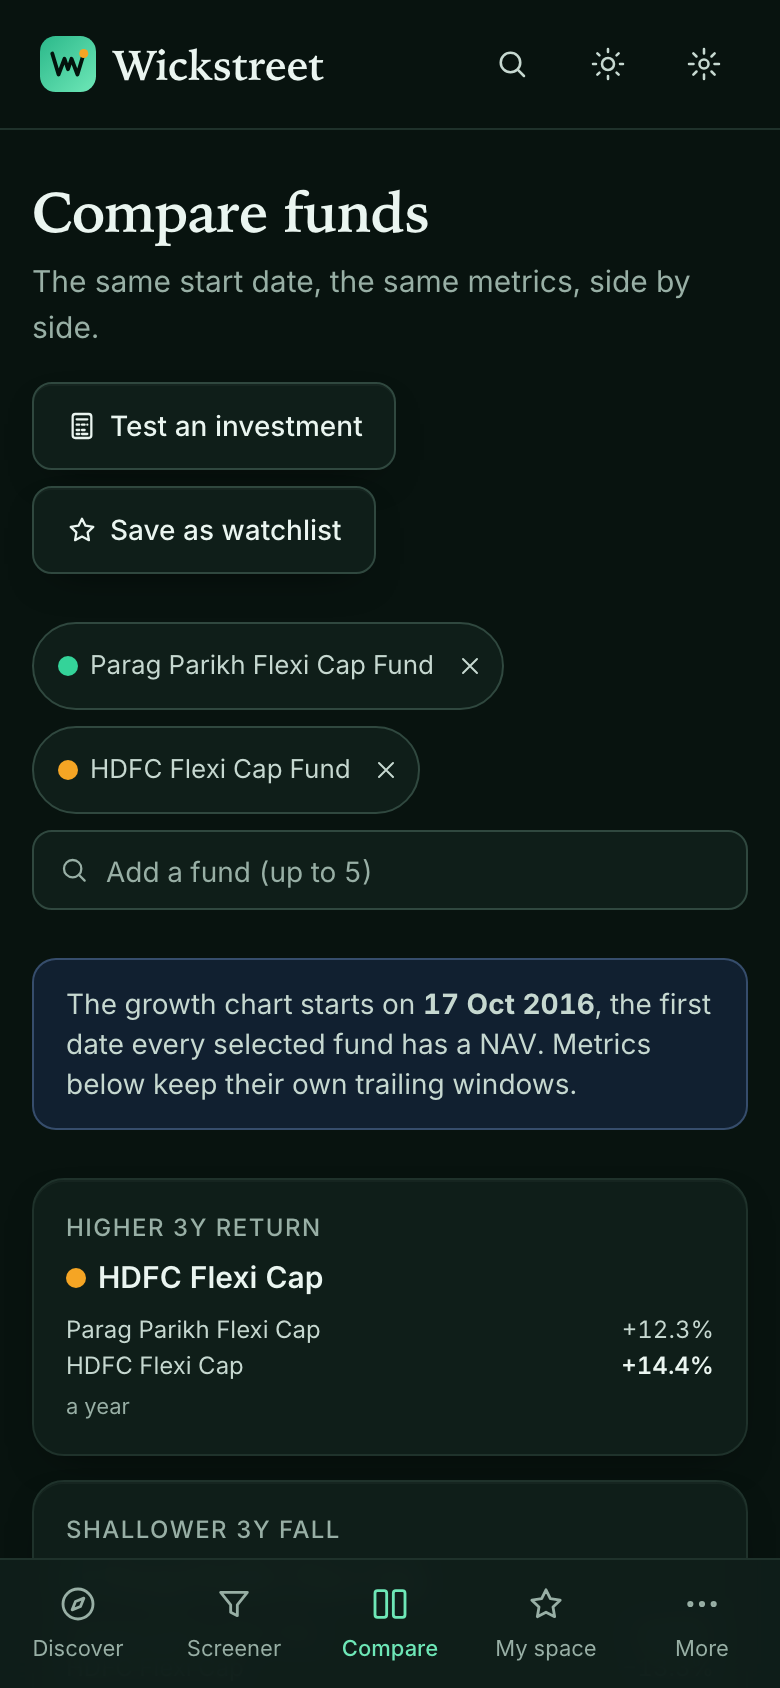
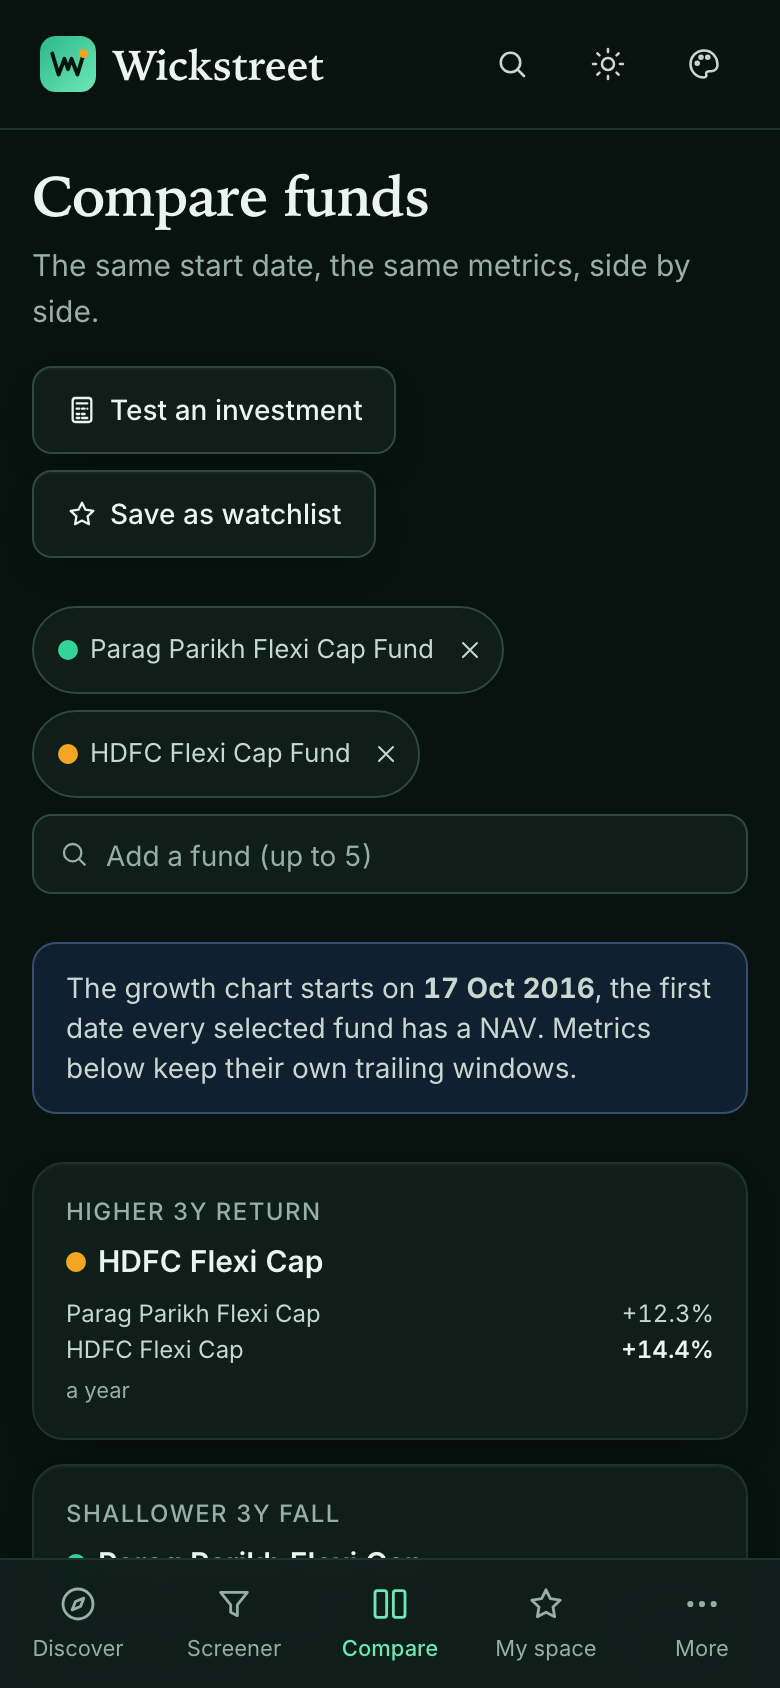
fix(wickstreet): act on independent review 1
The phone fund page shows all six key facts, the actions and the plot
on its first screen; the fixed action bar becomes an inline row. The
proxy line says it is not the benchmark. The screener says when
columns sit off to the right. The asset bar reads to 100%, managers
carry their document date, and launch and allotment dates are
distinct. Discover leads with scored funds.

diff --git a/web/src/features/mf/components/fund/Overview.tsx b/web/src/features/mf/components/fund/Overview.tsx
@@ -127,18 +127,22 @@ export function FundHeadline({ code, metrics }: { code: string; metrics: Metrics
         <span className="sm:hidden"><ScoreRing score={s?.score} size={44} /></span>
         <span className="hidden sm:inline-flex"><ScoreRing score={s?.score} /></span>
         <div className="text-sm">
-          <p className="font-medium text-mf-ink">Wickstreet score</p>
+          <p className="hidden font-medium text-mf-ink sm:block">Wickstreet score</p>
           <p className="hidden text-mf-muted sm:block">{s?.rank ? `Rank ${s.rank} of ${s.peers_ranked} scored ${category} funds` : s ? missingLabel(s.state) : 'Loading…'}</p>
-          <p className="text-mf-muted sm:hidden">{s?.rank ? `Rank ${s.rank} / ${s.peers_ranked} · ${category}` : s ? missingLabel(s.state) : 'Loading…'}</p>
-          <Link to="?tab=peers" className="text-xs font-medium text-mf-brand hover:underline">How it ranks</Link>
+          {/* Two lines reserved: the rank arrives after the page and must not push the facts down (CLS budget). */}
+          <p className="min-h-10 text-mf-ink-soft sm:hidden">
+            <span className="font-medium text-mf-ink">Score</span> · {s?.rank ? `rank ${s.rank} / ${s.peers_ranked} ${category}` : s ? missingLabel(s.state) : 'Loading…'} ·{' '}
+            <Link to="?tab=peers" className="font-medium text-mf-brand hover:underline">How it ranks</Link>
+          </p>
+          {/* On phones the three numbers share the score block, so they fit the first screen. */}
+          <p className="mt-0.5 text-xs font-medium tabular text-mf-ink-soft sm:hidden">
+            1Y {isNum(v.ret_1y) ? <Delta value={v.ret_1y} /> : '—'}
+            <span className="mx-1 text-mf-muted">·</span>3Y {isNum(v.cagr_3y) ? <Delta value={v.cagr_3y} /> : '—'}
+            <span className="mx-1 text-mf-muted">·</span>Worst 3Y {isNum(v.mdd_3y) ? <Delta value={v.mdd_3y} /> : '—'}
+          </p>
+          <Link to="?tab=peers" className="hidden text-xs font-medium text-mf-brand hover:underline sm:inline">How it ranks</Link>
         </div>
       </div>
-      {/* On phones the three numbers stay on one line, so they fit the first screen. */}
-      <p className="text-xs font-medium tabular text-mf-ink-soft sm:hidden">
-        1Y {isNum(v.ret_1y) ? <Delta value={v.ret_1y} /> : '—'}
-        <span className="mx-1 text-mf-muted">·</span>3Y {isNum(v.cagr_3y) ? <Delta value={v.cagr_3y} /> : '—'}
-        <span className="mx-1 text-mf-muted">·</span>Worst 3Y {isNum(v.mdd_3y) ? <Delta value={v.mdd_3y} /> : '—'}
-      </p>
       <dl className="hidden grid-cols-3 gap-2 text-center sm:grid sm:w-[360px]">
         {[
           ['1Y return', v.ret_1y, 'ret_1y'],
@@ -195,7 +199,7 @@ function Fact({ label, value, sub, source, to }: { label: string; value: ReactNo
       <dt className="text-xs font-medium text-mf-muted">{label}</dt>
       <dd className="mt-0.5 text-[15px] font-semibold leading-snug text-mf-ink">{value}</dd>
       {sub && <dd className="mt-0.5 text-xs leading-snug text-mf-ink-soft">{sub}</dd>}
-      {source && <dd className="mt-1 text-[11px] text-mf-muted">{source}</dd>}
+      {source && <dd className="mt-1 text-xs text-mf-muted">{source}</dd>}
     </>
   );
   return to ? (
@@ -204,6 +208,33 @@ function Fact({ label, value, sub, source, to }: { label: string; value: ReactNo
     </Link>
   ) : (
     <dl className="rounded-[12px] border border-mf-line bg-mf-surface px-3.5 py-3">{body}</dl>
+  );
+}
+
+/** The six key facts in one compact grid for the phone hero; the dated card follows the chart. */
+export function KeyFactsStrip({ code, metrics }: { code: string; metrics: Metrics }) {
+  const profile = useProfile(code);
+  const v = metrics.values;
+  const managers = profile.data?.managers ?? [];
+  const items: [string, string][] = [
+    ['TER', isNum(v.ter) ? pct(v.ter, 2) : '—'],
+    ['AUM', isNum(v.aum_cr) ? `₹${Math.round(v.aum_cr).toLocaleString('en-IN')} Cr` : '—'],
+    ['Risk', typeof v.riskometer === 'string' ? v.riskometer : '—'],
+    ['Benchmark', typeof v.benchmark === 'string' ? v.benchmark : '—'],
+    ['Manager', managers.length ? `${managers[0].name.replace(/^(Mr|Ms|Mrs|Dr)\.?\s+/, '').split(' ').slice(-1)[0]}${managers.length > 1 ? ` +${managers.length - 1}` : ''}` : '—'],
+    ['Portfolio', typeof v.holdings_as_of === 'string' ? date(v.holdings_as_of) : '—'],
+  ];
+  return (
+    <a href="#key-facts" className="mt-2 block rounded-[12px] bg-mf-surface/80 p-2 ring-1 ring-mf-line" aria-label="Key facts; go to their dates and sources">
+      <dl className="grid grid-cols-3 gap-x-2 gap-y-1.5">
+        {items.map(([k, value]) => (
+          <div key={k} className="min-w-0">
+            <dt className="text-[11px] text-mf-muted">{k}</dt>
+            <dd className="truncate text-[13px] font-semibold text-mf-ink" title={value}>{value}</dd>
+          </div>
+        ))}
+      </dl>
+    </a>
   );
 }
 
@@ -226,8 +257,12 @@ export function KeyFacts({ code, metrics }: { code: string; metrics: Metrics }) 
     ['Debt', v.debt_share],
     ['Cash', v.cash_share],
   ].filter((p): p is [string, number] => isNum(p[1]));
+  // The rest of net assets (REITs, InvITs, other funds, derivatives) gets a labelled share, so the bar reads to 100%.
+  const rest = 1 - mix.reduce((n, [, x]) => n + x, 0);
+  if (mix.length && rest > 0.005) mix.push(['Other', rest]);
   return (
     <Card
+      id="key-facts"
       title="Key facts"
       subtitle="Latest filings, each with its date"
       action={
@@ -260,7 +295,12 @@ export function KeyFacts({ code, metrics }: { code: string; metrics: Metrics }) 
         <Fact
           label="Benchmark"
           value={typeof v.benchmark === 'string' ? v.benchmark : why('benchmark')}
-          sub={isNum(v.excess_3y) ? `${pct(v.excess_3y, 1, true)} a year over it, 3Y` : undefined}
+          sub={
+            <>
+              {isNum(v.excess_3y) && <>{pct(v.excess_3y, 1, true)} a year over it, 3Y. </>}
+              {(v.asset_class === 'Equity' || v.asset_class === 'Hybrid') && 'The chart’s dashed line is a proxy, not this index.'}
+            </>
+          }
           source={typeof v.perf_as_of === 'string' ? `Tier 1, AMFI report of ${date(v.perf_as_of)}` : undefined}
           to="?tab=benchmark"
         />
@@ -274,7 +314,7 @@ export function KeyFacts({ code, metrics }: { code: string; metrics: Metrics }) 
                 ? `Since ${date(managers[0].since)}`
                 : undefined
           }
-          source={managers.length ? 'Start dates as filed' : undefined}
+          source={managers.length ? `Scheme document of ${date(profile.data?.document?.managers?.as_of)}` : undefined}
           to="?tab=facts"
         />
         <Fact
@@ -367,7 +407,8 @@ export function Essentials({ detail, metrics }: { detail: FundDetail; metrics: M
     ['Fund house', f.amc],
     ['Category', f.category],
     ['Plan · option', `${f.plan} · ${f.option}`],
-    ['Launch date', date(f.launch_date)],
+    ['Launch date (NFO)', date(f.launch_date)],
+    ['Allotment date', date(metrics.values.inception)],
     ['First stored NAV', date(detail.classification.since_start)],
     ['ISIN', f.isin_growth ?? f.isin_reinvest ?? '—'],
     ['AMFI code', f.amfi_code],

diff --git a/web/src/features/mf/components/screener/ResultsTable.tsx b/web/src/features/mf/components/screener/ResultsTable.tsx
@@ -3,6 +3,7 @@
  * screens, cards with the same columns and order on phones. A missing value
  * shows its reason, never a zero.
  */
+import { useEffect, useRef, useState } from 'react';
 import { Link } from 'react-router';
 import type { FieldDef, ScreenRow, SortKey } from '../../api';
 import { categoryShort, formatField, missingLabel, schemeName, tone } from '../../format';
@@ -58,6 +59,22 @@ export function ResultsTable({
   stale?: boolean;
 }) {
   const primary = sort[0];
+  // Width hidden to the right of the wide table, so a column never disappears without a cue (review 1, rank 3).
+  const wide = useRef<HTMLDivElement>(null);
+  const [hidden, setHidden] = useState(0);
+  useEffect(() => {
+    const el = wide.current;
+    if (!el) return;
+    const update = () => setHidden(Math.max(0, el.scrollWidth - el.clientWidth - el.scrollLeft));
+    update();
+    el.addEventListener('scroll', update, { passive: true });
+    const observer = new ResizeObserver(update);
+    observer.observe(el);
+    return () => {
+      el.removeEventListener('scroll', update);
+      observer.disconnect();
+    };
+  }, [columns.length, rows.length]);
   const lines = useSparklines(rows.map((r) => r.amfi_code));
   const line = (r: ScreenRow) => {
     const points = lines.data?.series[r.amfi_code];
@@ -66,7 +83,15 @@ export function ResultsTable({
   return (
     <div className={cx('transition-opacity duration-150', stale && 'opacity-50')} aria-busy={stale}>
       {/* Wide screens */}
-      <div className="mf-scroll hidden overflow-x-auto rounded-card border border-mf-line bg-mf-surface md:block" role="region" aria-label="Screen results" tabIndex={0}>
+      {hidden > 8 && (
+        <p className="mb-2 hidden items-center justify-end gap-2 text-xs text-mf-muted md:flex">
+          More columns to the right
+          <button type="button" onClick={() => wide.current?.scrollBy({ left: 320, behavior: 'smooth' })} className="inline-flex items-center gap-1 rounded-full border border-mf-line-strong bg-mf-surface px-2.5 py-1 font-medium text-mf-brand-strong hover:border-mf-brand/50">
+            Scroll <I.chevronRight className="h-3.5 w-3.5" />
+          </button>
+        </p>
+      )}
+      <div ref={wide} className="mf-scroll hidden overflow-x-auto rounded-card border border-mf-line bg-mf-surface md:block" role="region" aria-label="Screen results" tabIndex={0}>
         <table className="w-full min-w-[760px] text-sm">
           <thead className="sticky top-0 z-10 bg-mf-sunken text-xs text-mf-muted">
             <tr>
@@ -95,7 +120,7 @@ export function ResultsTable({
           <tbody>
             {rows.map((r) => (
               <tr key={r.amfi_code} className="group border-t border-mf-line hover:bg-mf-sunken/50">
-                <th scope="row" className="sticky left-0 w-[280px] min-w-[220px] max-w-[280px] bg-mf-surface px-4 py-2.5 text-left font-normal transition-colors group-hover:bg-mf-sunken">
+                <th scope="row" className="sticky left-0 w-[240px] min-w-[200px] max-w-[240px] bg-mf-surface px-4 py-2.5 text-left font-normal transition-colors group-hover:bg-mf-sunken">
                   <div className="flex items-center gap-2.5">
                     <FundMark amc={String(r.values.amc ?? '')} size="sm" />
                     <div className="min-w-0">

diff --git a/web/src/features/mf/routes/fund.tsx b/web/src/features/mf/routes/fund.tsx
@@ -10,7 +10,7 @@ import { FundMark } from '../components/FundMark';
 import { Benchmark, FactsAndCosts } from '../components/fund/Facts';
 import { Holdings } from '../components/fund/Holdings';
 import { Profile } from '../components/fund/Profile';
-import { FundHeadline, Overview } from '../components/fund/Overview';
+import { FundHeadline, KeyFactsStrip, Overview } from '../components/fund/Overview';
 import { Peers } from '../components/fund/Peers';
 import { Performance } from '../components/fund/Performance';
 import { Risk } from '../components/fund/Risk';
@@ -162,13 +162,16 @@ export default function Fund() {
   );
 
   return (
-    <div className="flex flex-col gap-3 pb-16 sm:gap-6 sm:pb-0">
-      <div className="order-0 flex flex-wrap items-center justify-between gap-2">
-        <button type="button" onClick={() => (window.history.length > 1 ? navigate(-1) : navigate('/mf/screen'))} className="inline-flex min-h-11 items-center gap-1.5 text-sm text-mf-muted hover:text-mf-ink sm:min-h-0">
+    <div className="flex flex-col gap-3 sm:gap-6">
+      <div className="order-0 flex items-center justify-between gap-2">
+        <button type="button" onClick={() => (window.history.length > 1 ? navigate(-1) : navigate('/mf/screen'))} className="inline-flex min-h-11 shrink-0 items-center gap-1.5 text-sm text-mf-muted hover:text-mf-ink sm:min-h-0">
           <I.arrowLeft className="h-4 w-4" />
           Back
         </button>
-        <div className="hidden flex-wrap gap-2 sm:flex">{actions}</div>
+        {/* One actions row at every width; on phones it scrolls sideways, so no bar covers the page. */}
+        <div tabIndex={0} className="mf-scroll -mr-1 flex min-w-0 gap-2 overflow-x-auto py-1 pr-1 sm:flex-wrap sm:justify-end sm:overflow-visible" role="group" aria-label="Fund actions; scroll sideways for more actions">
+          {actions}
+        </div>
       </div>
 
       {tab === 'overview' ? (
@@ -184,6 +187,9 @@ export default function Fund() {
             <LastNav code={code} />
           </div>
           <FundHeadline code={code} metrics={m} />
+          <div className="sm:hidden">
+            <KeyFactsStrip code={code} metrics={m} />
+          </div>
         </header>
       ) : (
         // Other tabs keep the identity and NAV in one strip, so their first chart sits high (audit 5.3).
@@ -202,9 +208,6 @@ export default function Fund() {
           <LastNav code={code} compact />
         </header>
       )}
-      <div tabIndex={0} className="fixed inset-x-0 bottom-[calc(4rem+env(safe-area-inset-bottom))] z-20 flex gap-2 overflow-x-auto border-t border-mf-line bg-mf-surface/95 px-3 py-2 backdrop-blur sm:hidden" role="group" aria-label="Fund actions; scroll horizontally for more actions">
-        {actions}
-      </div>
 
       <div className="order-2">
         <TabLinks label="Fund sections" active={tab} tabs={TABS.map((t) => ({ id: t.id, label: t.label, to: `?tab=${t.id}` }))} />

diff --git a/web/src/features/mf/routes/discover.tsx b/web/src/features/mf/routes/discover.tsx
@@ -211,15 +211,20 @@ function Ideas({ presets: all }: { presets?: Preset[] }) {
     if (!preset) return null;
     const view = presetView(preset);
     const columns = [...new Set(['category', 'score', 'cagr_3y', 'sharpe_3y', 'score_cat_rank', 'score_cat_count', ...view.columns])];
-    return { filter: filterOf(view), sort: view.sort, columns, page: { size: 4 } };
+    return { filter: filterOf(view), sort: view.sort, columns, page: { size: 8 } };
   }, [preset]);
   const screen = useScreen(body);
-  const lines = useSparklines((screen.data?.rows ?? []).map((r) => r.amfi_code));
+  // Four funds, scored ones first: an unscored fund leads an idea only when nothing else matches (review 1, rank 12).
+  const rows = useMemo(() => {
+    const all = screen.data?.rows ?? [];
+    return [...all.filter((r) => r.values.score != null), ...all.filter((r) => r.values.score == null)].slice(0, 4);
+  }, [screen.data]);
+  const lines = useSparklines(rows.map((r) => r.amfi_code));
   return (
     <Card title="Ideas to research" subtitle={preset && <>Why these funds: {preset.purpose.charAt(0).toLowerCase() + preset.purpose.slice(1)}</>} action={preset && <Link to={`/mf/screen?preset=${preset.id}`} className="text-sm font-medium text-mf-brand hover:underline">See all {screen.data ? screen.data.matched : ''}</Link>}>
-      <div className="mf-scroll -mx-1 flex gap-2 overflow-x-auto px-1 pb-1">
+      <div className="flex flex-wrap gap-2">
         {presets?.map((p, i) => (
-          <Chip key={p.id} pressed={i === active} onClick={() => setActive(i)} className="shrink-0">
+          <Chip key={p.id} pressed={i === active} onClick={() => setActive(i)}>
             {p.name}
           </Chip>
         ))}
@@ -233,7 +238,7 @@ function Ideas({ presets: all }: { presets?: Preset[] }) {
           <p className="py-6 text-center text-sm text-mf-muted">No fund matches this collection today.</p>
         ) : (
           <ul className={cx('divide-y divide-mf-line transition-opacity', screen.isPlaceholderData && 'opacity-50')}>
-            {screen.data.rows.map((r) => (
+            {rows.map((r) => (
               <li key={r.amfi_code}>
                 <Link to={`/mf/funds/${r.amfi_code}`} className="group flex items-center gap-3 py-3">
                   <ScoreBadge score={r.values.score as number | null} />
@@ -258,7 +263,7 @@ function Ideas({ presets: all }: { presets?: Preset[] }) {
   );
 }
 
-const WINDOWS = { '1Y': 1, '3Y': 3, '5Y': 5, Max: 99 } as const;
+const WINDOWS = { '1Y': 1, '3Y': 3, '5Y': 5, All: 99 } as const;
 type Window = keyof typeof WINDOWS;
 
 function MarketContext() {

diff --git a/web/e2e/mf/intelligence.spec.ts b/web/e2e/mf/intelligence.spec.ts
@@ -171,18 +171,21 @@ test.describe('on a phone', () => {
 test.describe('at the 390 px investor viewport', () => {
   test.use({ viewport: { width: 390, height: 844 }, isMobile: true, hasTouch: true });
 
-  test('Overview keeps identity and actions while showing the primary plot above the action bar', async ({ page }) => {
+  test('Overview keeps identity, actions and key facts on the first screen with the primary plot above the navigation', async ({ page }) => {
     await page.goto(`/mf/funds/${FUND}?tab=overview`);
     await expect(page.getByRole('heading', { level: 1 })).toBeVisible();
     await expect(page.getByRole('img', { name: /^Score \d+ of 100$/ })).toBeInViewport();
     await expect(page.getByRole('heading', { name: 'Growth of ₹10,000' })).toBeInViewport();
     const bar = page.getByRole('group', { name: 'Fund actions' });
     await expect(bar.getByRole('button', { name: 'Add to watchlist' })).toBeInViewport();
+    // The six key facts sit on the first screen (independent review 1, rank 1).
+    const facts = page.getByRole('link', { name: /^Key facts/ });
+    for (const label of ['TER', 'AUM', 'Risk', 'Benchmark', 'Manager', 'Portfolio']) await expect(facts.getByText(label, { exact: true })).toBeInViewport();
     const chart = page.getByRole('figure', { name: 'Growth of ₹10,000 chart' });
     await expect(chart).toBeVisible();
     const figureTop = await chart.evaluate((element) => element.getBoundingClientRect().top);
-    const actionsTop = await bar.evaluate((element) => element.getBoundingClientRect().top);
-    expect(actionsTop - figureTop, 'show a useful portion of the NAV plot above the fixed action bar').toBeGreaterThanOrEqual(80);
+    const navTop = await page.getByRole('navigation', { name: 'Mutual fund research' }).evaluate((element) => element.getBoundingClientRect().top);
+    expect(navTop - figureTop, 'show a useful portion of the NAV plot above the fixed navigation').toBeGreaterThanOrEqual(80);
     await expectNoSideScroll(page);
   });
 });

diff --git a/web/src/features/mf/components/screener/FilterRail.tsx b/web/src/features/mf/components/screener/FilterRail.tsx
@@ -56,7 +56,7 @@ function RangeControl({ field, min, max, onChange }: { field: FieldDef; min: unk
         type={date ? 'date' : 'number'}
         inputMode={date ? undefined : 'decimal'}
         step="any"
-        placeholder={side === 'Minimum' ? 'No minimum' : 'No maximum'}
+        placeholder="Any"
         aria-label={`${side} ${field.label}`}
         value={value}
         onChange={(e) => {
@@ -72,7 +72,7 @@ function RangeControl({ field, min, max, onChange }: { field: FieldDef; min: unk
       {input('Maximum', high, setHigh)}
       {inverted && <p className="col-span-2 text-xs text-mf-loss" role="alert">Minimum must be less than or equal to maximum. Results keep the last valid range.</p>}
       <p className="col-span-2 text-[11px] text-mf-muted">
-        {field.range ? `Snapshot values run from ${formatField(field, field.range[0])} to ${formatField(field, field.range[1])}. ` : ''}
+        {field.range ? `All ${field.coverage.values.toLocaleString('en-IN')} plan options with a value run from ${formatField(field, field.range[0])} to ${formatField(field, field.range[1])}. ` : ''}
         Results update as you type. Leave both empty to keep all funds.
       </p>
     </div>

diff --git a/web/src/features/mf/components/icons.tsx b/web/src/features/mf/components/icons.tsx
@@ -42,7 +42,7 @@ export const I = {
   shield: icon(<path d="M12 3 5 6v6c0 4.2 3 7.6 7 9 4-1.4 7-4.8 7-9V6z" />),
   calendar: icon(<><rect x="3.5" y="5" width="17" height="15" rx="2" /><path d="M3.5 10h17M8 3v4M16 3v4" /></>),
   stocks: icon(<><path d="M7 4v16M17 4v16" /><rect x="4.5" y="8" width="5" height="7" rx="1" /><rect x="14.5" y="6" width="5" height="9" rx="1" /></>),
-  settings: icon(<><circle cx="12" cy="12" r="3" /><path d="M12 2v3M12 19v3M4.9 4.9 7 7M17 17l2.1 2.1M2 12h3M19 12h3M4.9 19.1 7 17M17 7l2.1-2.1" /></>),
+  settings: icon(<><path d="M12 3a9 9 0 0 0 0 18c1.2 0 1.9-1 1.5-2-.4-1.1.4-2.2 1.6-2.2H17a4 4 0 0 0 4-4C21 7 17 3 12 3z" /><circle cx="7.5" cy="11.5" r="1" /><circle cx="10" cy="7.5" r="1" /><circle cx="14.5" cy="7.5" r="1" /></>),
   grid: icon(<><rect x="4" y="4" width="7" height="7" rx="1" /><rect x="13" y="4" width="7" height="7" rx="1" /><rect x="4" y="13" width="7" height="7" rx="1" /><rect x="13" y="13" width="7" height="7" rx="1" /></>),
   list: icon(<path d="M8 6h12M8 12h12M8 18h12M4 6h0M4 12h0M4 18h0" />),
 };

diff --git a/web/src/features/mf/series.ts b/web/src/features/mf/series.ts
@@ -5,7 +5,7 @@
  */
 import type { NavRow, Point } from './api';
 
-export const WINDOWS = { '1Y': 1, '3Y': 3, '5Y': 5, '10Y': 10, Max: 99 } as const;
+export const WINDOWS = { '1Y': 1, '3Y': 3, '5Y': 5, '10Y': 10, All: 99 } as const;
 export type WindowKey = keyof typeof WINDOWS;
 
 /** Points on or after the same calendar date `years` before the last point. */
@@ -31,7 +31,7 @@ export function rebase(points: Point[], base: number, start?: string): Point[] {
 
 /** How many years a window can show: the longest window the series covers. */
 export function availableWindows(points: Point[]): WindowKey[] {
-  if (points.length < 2) return ['Max'];
+  if (points.length < 2) return ['All'];
   const years = (Date.parse(points[points.length - 1][0]) - Date.parse(points[0][0])) / (365.25 * 864e5);
   return (Object.keys(WINDOWS) as WindowKey[]).filter((k) => WINDOWS[k] === 99 || WINDOWS[k] <= years + 0.02);
 }

diff --git a/web/e2e/mf/screener-basic.spec.ts b/web/e2e/mf/screener-basic.spec.ts
@@ -55,7 +55,7 @@ test('Basic metric selection shows real values without adding a filter', async (
     (window as Window & { __mfClicks?: number }).__mfClicks = 0;
   });
   await expect(page.getByRole('button', { name: 'Filter by Return 1Y' })).toHaveAttribute('aria-expanded', 'true');
-  await expect(page.getByText(/Snapshot values run from −?[\d.,]+% to [\d.,]+%/)).toBeVisible();
+  await expect(page.getByText(/plan options with a value run from −?[\d.,]+% to [\d.,]+%/)).toBeVisible();
   const minimum = page.getByRole('spinbutton', { name: 'Minimum Return 1Y' });
   await expect(minimum).toBeVisible();
   const thresholdResult = page.waitForResponse((response) =>

diff --git a/web/src/features/mf/series.test.ts b/web/src/features/mf/series.test.ts
@@ -35,9 +35,9 @@ describe('chart series', () => {
   });
 
   it('offers only the windows the history covers', () => {
-    expect(availableWindows(points)).toEqual(['1Y', '3Y', '5Y', '10Y', 'Max']);
-    expect(availableWindows(points.slice(1))).toEqual(['1Y', '3Y', 'Max']);
-    expect(availableWindows([['2026-01-01', 1]])).toEqual(['Max']);
+    expect(availableWindows(points)).toEqual(['1Y', '3Y', '5Y', '10Y', 'All']);
+    expect(availableWindows(points.slice(1))).toEqual(['1Y', '3Y', 'All']);
+    expect(availableWindows([['2026-01-01', 1]])).toEqual(['All']);
   });
 });
 

diff --git a/web/src/features/mf/components/MfShell.tsx b/web/src/features/mf/components/MfShell.tsx
@@ -241,7 +241,7 @@ export function MfShell({ children }: { children: ReactNode }) {
           </div>
         </header>
 
-        <main id="mf-main" tabIndex={-1} className="mf-main mx-auto max-w-[1440px] px-4 py-6 outline-none sm:px-6 lg:px-8 lg:pb-28 lg:pt-8">
+        <main id="mf-main" tabIndex={-1} className="mf-main mx-auto max-w-[1440px] px-4 pb-6 pt-4 outline-none sm:px-6 sm:pt-6 lg:px-8 lg:pb-28 lg:pt-8">
           <MixedSnapshots />
           {children}
         </main>
